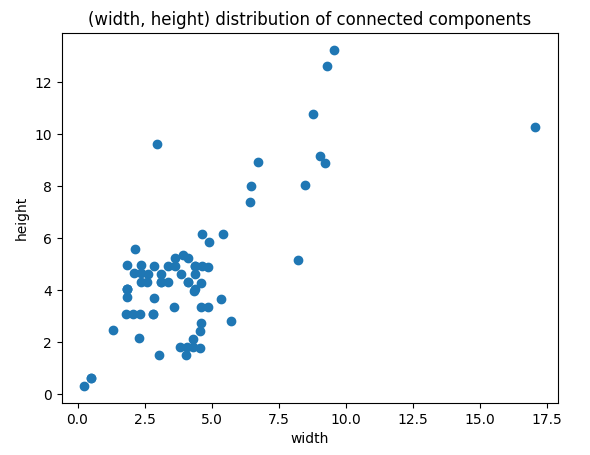
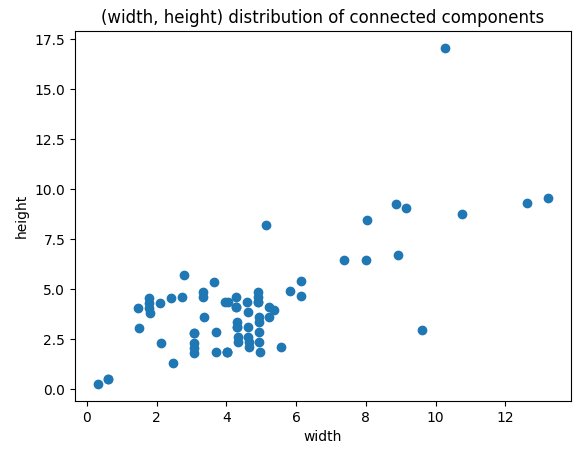
fix distrib curves

diff --git a/README.md b/README.md
@@ -308,7 +308,7 @@ Let's plot height, width bounding boxes distribution
 import matplotlib.pyplot as plt
 hv = [shape.bbox[2] - shape.bbox[0] for shape in shapes_normalized]
 wv = [shape.bbox[3] - shape.bbox[1] for shape in shapes_normalized]
-plt.scatter(hv,wv);
+plt.scatter(wv,hv);
 plt.xlabel("width")
 plt.ylabel("height")
 plt.title("(width, height) distribution of connected components")
@@ -317,7 +317,7 @@ plt.show()
 
 ![img](.thumbnails/hw_distrib.png)
 
-As expected, there is a good insight here as we show that most point are centered around (height=4m, width=3m). But there is a room for improvement as vehicule can be rotated making height, width vehicles not exacty equal to the bounding box width, height.
+As expected, there is a good insight here as we show that most point are centered. But there is a room for improvement as vehicule can be rotated making height, width vehicles not exacty equal to the bounding box width, height.
 
 That's why we propose to get better height, width vehicle by fitting the best rectangle using on each connected component.
 
@@ -335,7 +335,7 @@ How does the height, width distribution behaves? let's see it:
 ```
 hv = [shape.rectangle_height for shape in shapes_normalized]
 wv = [shape.rectangle_width for shape in shapes_normalized]
-plt.scatter(hv,wv);
+plt.scatter(wv,hv);
 plt.xlabel("width")
 plt.ylabel("height")
 plt.title("(width, height) distribution of rectangle that best enclosed connected components")
@@ -344,7 +344,7 @@ plt.show()
 
 ![img](.thumbnails/hw_distrib_pp.png)
 
-As expected, we finally get a more compact cluster showing that there is a simple pattern to separate well isolated and segmented vehicule to other connected components
+As expected, we finally get a more compact cluster showing that there is a simple pattern to separate well isolated and segmented vehicule to other connected components, this pattern shows that vehicle are around 2 meters X 5 meters which can decently represent trucks.
 
 Now let's now get a Gaussian that fit that 2D (height, width) distribution
 
@@ -353,14 +353,16 @@ import numpy as np
 import sklearn
 
 gm = sklearn.mixture.GaussianMixture(n_components=1) # we use a mixture of gaussians model with only one component
-X = np.concatenate((np.array(hv)[:,np.newaxis],np.array(wv)[:,np.newaxis]), axis=1)
+X = np.concatenate((np.array(wv)[:,np.newaxis],np.array(hv)[:,np.newaxis]), axis=1)
 gm.fit(X)
 scorev = gm.score_samples(X)
 
-sc = plt.scatter(hv, wv, c=scorev)
+sc = plt.scatter(wv, hv, c=scorev)
 plt.colorbar(sc)
 plt.title("Negative log-likelihood predicted by the Gaussian Mixture")
 plt.axis("tight")
+plt.xlabel("width")
+plt.ylabel("height")
 plt.show()
 ```
 
